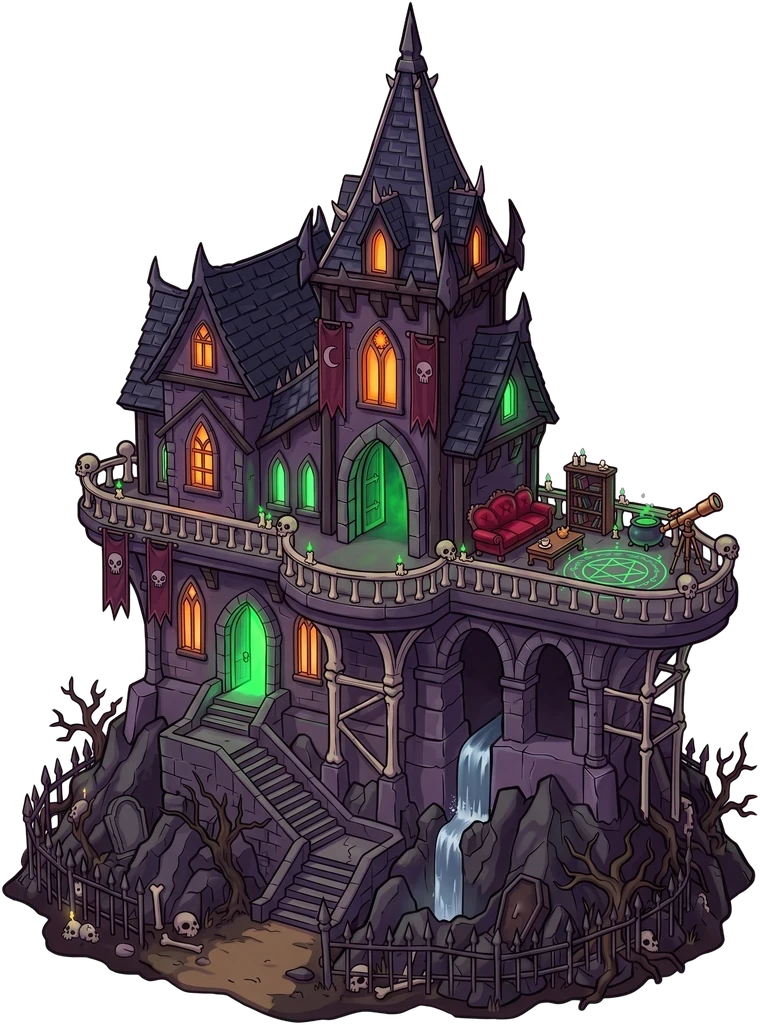
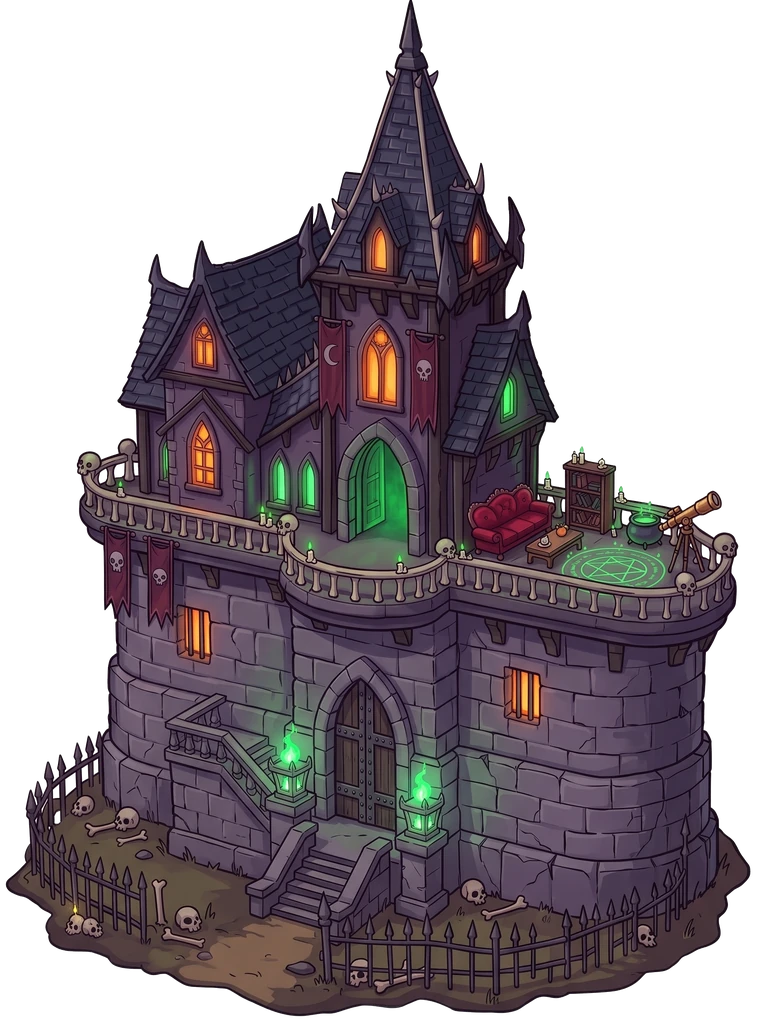
Kale v5: alt kısım kesme taş temel ve kapı (Gemini), Veo bekleme videosu kaldırıldı (siyah benekler); yeni pencere/fener ışıkları (yayın 746)

diff --git a/sinir-kalesi/js/game.js b/sinir-kalesi/js/game.js
@@ -6603,7 +6603,7 @@ function castleStage() { const r = G.lives / G.maxLives; return r > 0.6 ? 1 : r 
 // rails: önde yeniden çizilen korkuluk dikdörtgenleri (Mortimer ve muhafızların ayakları korkuluğun ardında kalır)
 // 13 Eki (Caner): kale sıfırdan (ham/nm_kale_v3.jpg, varliklar/kale_v3_isle.py): boynuzlu kafatası kule, kafatası ağzı kapı, ortada yarım daire
 // balkon (Mortimer), iki yan kanat balkonda okçular. Kesirler castle_keep_1 görseline göre (ızgarayla ölçüldü).
-const KEEP = { w: 140, gate: [0.42, 0.88], at: [0.73, 0.556], // 17 Eki (Caner): kale ve Mortimer %20, sonra %5 daha küçük (Mortimer kaleyle ölçeklenir); Mortimer yan terasta (kanepe ile ritüel çemberi arası)
+const KEEP = { w: 140, gate: [0.42, 0.9], at: [0.73, 0.556], // 17 Eki (Caner): kale ve Mortimer %20, sonra %5 daha küçük (Mortimer kaleyle ölçeklenir); Mortimer yan terasta (kanepe ile ritüel çemberi arası)
   rail: [0.36, 0.53, 0.62, 0.61], px: 122, // 17 Eki: kale v4 (teraslı gotik ev)
   // railPoly: korkuluğun üst çizgisi (tutamak) boyunca çokgen; altı önde yeniden çizilir (Mortimer ve okçuların ayakları korkuluğun ardında)
   railPoly: [[0.11, 0.454], [0.145, 0.488], [0.263, 0.5], [0.36, 0.509], [0.395, 0.532], [0.447, 0.548], [0.526, 0.552], [0.585, 0.539], [0.684, 0.564],
@@ -14950,8 +14950,10 @@ const KEEP_FX = { // 17 Eki: kale v4 (turuncu pencereler, yeşil kapılar, ritü
   fire: [], green: true, eyes: [],
   win: [[0.497, 0.244, 0.6, '255,150,60'], [0.625, 0.24, 0.5, '255,150,60'], [0.5, 0.356, 1.6, '255,150,60'], [0.267, 0.337, 0.8, '255,150,60'],
     [0.263, 0.444, 0.9, '255,150,60'], [0.366, 0.47, 0.6, '110,255,120'], [0.405, 0.47, 0.6, '110,255,120'], [0.668, 0.388, 0.7, '110,255,120'],
-    [0.5, 0.478, 1.4, '110,255,120'], [0.322, 0.634, 1.3, '110,255,120'], [0.25, 0.605, 0.8, '255,150,60'], [0.405, 0.632, 0.8, '255,150,60'],
-    [0.803, 0.551, 1.4, '110,255,120'], [0.842, 0.512, 0.7, '110,255,120']],
+    [0.5, 0.478, 1.4, '110,255,120'], [0.322, 0.634, 1.3, '110,255,120', 0], [0.25, 0.605, 0.8, '255,150,60', 0], [0.405, 0.632, 0.8, '255,150,60', 0],
+    [0.803, 0.551, 1.4, '110,255,120'], [0.842, 0.512, 0.7, '110,255,120'],
+    // 17 Eki: v5 taş temel (yalnız 1. evre; 5. öğe 1 = yalnız sağlam kale, 0 = yalnız eski kayalıklı 2-3. evre görselleri)
+    [0.255, 0.618, 0.8, '255,150,60', 1], [0.69, 0.702, 0.8, '255,150,60', 1], [0.381, 0.752, 0.9, '110,255,120', 1], [0.553, 0.806, 0.9, '110,255,120', 1]],
   // hasar evrelerinde duman ve yangın kodla canlı: smoke [x, y, kalınlık], burn [x, y, boy]; off: o evrede kırılıp sönen pencereler (win sırası)
   dmg: {
     // 17 Eki: 2-3. evrede Veo yok (Veo hasarlı kaleyi reddetti ya da onarıp çizdi): pencerelerdeki çizili yangınların üstünde kodla canlı alev
@@ -14976,7 +14978,7 @@ function drawKeepLights(cp, h, sh, burning) {
   ctx.save(); ctx.globalCompositeOperation = 'lighter';
   const off = (KEEP_FX.dmg[burning] || {}).off;
   for (const [i, f] of KEEP_FX.win.entries()) {
-    if (off && off.includes(i)) continue;
+    if ((off && off.includes(i)) || (f[4] === 1 && burning) || (f[4] === 0 && !burning)) continue;
     const [x, y] = P(f), k = 0.6 + 0.25 * Math.sin(time * 1.2 + i * 0.9) + 0.15 * Math.sin(time * 5 + i * 2) * Math.sin(time * 1.6 + i);
     glow(ctx, x, y, 22 * s * f[2], f[3] || winCol(i), 0.15 * k + 0.05);
   }

diff --git a/sinir-kalesi/index.html b/sinir-kalesi/index.html
@@ -17,7 +17,7 @@
 <canvas id="game" aria-label="Sınır Kalesi oyun alanı"></canvas>
 <script>
   // Sürüm damgası: her yayında artırılır; tarayıcı eski önbellek kopyasını kullanmaz (js ve görseller).
-  window.SURUM = '745';
+  window.SURUM = '746';
   // dil: kayıtlı seçim (yoksa Türkçe); tr/en dışındakiler için çeviri sözlüğü dil.js'ten önce yüklenir
   window.__dilYukle = (function () {
     var l = null; try { l = localStorage.getItem('sinirKalesi.lang'); } catch (e) {}

diff --git a/sinir-kalesi/yayin.html b/sinir-kalesi/yayin.html
@@ -11,7 +11,7 @@
 <canvas id="game" aria-label="Sınır Kalesi oyun alanı"></canvas>
 <script>
   // Sürüm damgası: her yayında artırılır; tarayıcı eski önbellek kopyasını kullanmaz (js ve görseller).
-  window.SURUM = '745';
+  window.SURUM = '746';
   // dil: kayıtlı seçim (yoksa Türkçe); tr/en dışındakiler için çeviri sözlüğü dil.js'ten önce yüklenir
   window.__dilYukle = (function () {
     var l = null; try { l = localStorage.getItem('sinirKalesi.lang'); } catch (e) {}

diff --git a/varliklar/kale_v5_isle.py b/varliklar/kale_v5_isle.py
@@ -1,0 +1,67 @@
+"""Kale v5 (17 Eki, Caner: "üst kısmı iyi de alt kısmı tasarım olarak kötü"): v4'ün üst kısmı aynı, alt kısım kesme taş temel + kapı.
+ham/nm_kale_v5.jpg (beyaz zemin) -> beyaz kenardan taşma doldurmayla silinir; v4 görseline üst kısımdan hizalanır (KEEP noktaları geçerli kalsın).
+    .venv/bin/python3 varliklar/kale_v5_isle.py [--yaz]   (--yaz: img/castle_keep_1.webp üstüne; eskisi cikti/kale_v4/ yedekte)"""
+import os, sys
+import numpy as np
+from PIL import Image
+from scipy import ndimage as nd
+D = os.path.dirname(os.path.abspath(__file__)); IMG = os.path.join(D, '..', 'sinir-kalesi', 'img')
+OUT = os.path.join(D, 'cikti', 'kale_v5'); os.makedirs(OUT, exist_ok=True)
+
+
+def beyaz_sil(a):
+    """kenara bağlı beyazımsı zemin saydam; sınırda beyazlık oranıyla yumuşak alfa ve beyaz karışımın geri çözülmesi"""
+    f = a.astype(np.float32); mn, mx = f.min(2), f.max(2)
+    bg = (mn > 225) & (mx - mn < 22)
+    lab, _ = nd.label(bg); edge = np.unique(np.concatenate([lab[0], lab[-1], lab[:, 0], lab[:, -1]])); edge = edge[edge > 0]
+    bg = np.isin(lab, edge)
+    # korkuluk/çit aralarında kapalı kalan beyaz delikler (kenara bağlı değil): daha katı eşikle, 30 px üstü
+    hole = (mn > 236) & (mx - mn < 14) & ~bg; lab2, n2 = nd.label(hole)
+    if n2: sz2 = nd.sum(np.ones_like(lab2), lab2, range(1, n2 + 1)); bg |= np.isin(lab2, 1 + np.where(sz2 >= 30)[0])
+    near = nd.binary_dilation(bg, iterations=3) & ~bg
+    # sınır pikseli: beyaza ne kadar yakınsa o kadar saydam (en koyu kanala göre)
+    w = np.clip((mn - 120) / (250 - 120), 0, 1)
+    al = np.ones(mn.shape, np.float32); al[bg] = 0; al[near] = 1 - w[near]
+    al = np.where(al < 0.08, 0, al)
+    # beyaz karışımını çöz: c = al*fg + (1-al)*255 -> fg
+    k = np.maximum(al, 0.05)[..., None]; fg = ((f - (1 - k) * 255) / k).clip(0, 255)
+    out = np.dstack([np.where(near[..., None], fg, f), al * 255]).astype(np.uint8)
+    lab, n = nd.label(out[..., 3] > 40); sz = nd.sum(np.ones_like(lab), lab, range(1, n + 1))
+    keep = np.isin(lab, 1 + np.where(sz >= sz.max() * 0.002)[0]); out[~nd.binary_dilation(keep, iterations=2), 3] = 0
+    return out
+
+
+def gri(rgba, s):
+    im = Image.fromarray(rgba); im = im.resize((round(im.width * s), round(im.height * s)), Image.LANCZOS)
+    a = np.asarray(im).astype(np.float32); return a[..., :3].mean(2) * (a[..., 3] / 255), a[..., 3] / 255
+
+
+new = beyaz_sil(np.asarray(Image.open(os.path.join(D, 'ham', 'nm_kale_v5.jpg')).convert('RGB')))
+old = np.asarray(Image.open(os.path.join(D, 'cikti', 'kale_v4', 'castle_keep_1.webp')).convert('RGBA'))
+og, _ = gri(old, 0.25); top = og[: int(og.shape[0] * 0.5)]  # eski görselin üst yarısı (ev + çatılar + teras başı)
+best = None
+for s in np.linspace(0.30, 0.55, 51):
+    ng, _ = gri(new, s * 0.25)
+    if ng.shape[0] < top.shape[0] or ng.shape[1] < top.shape[1]: continue
+    from numpy.lib.stride_tricks import sliding_window_view as sw
+    t = top - top.mean()
+    # kaba arama: 2 px adım
+    best_s = None
+    for dy in range(0, ng.shape[0] - top.shape[0] + 1, 2):
+        for dx in range(0, ng.shape[1] - top.shape[1] + 1, 2):
+            p = ng[dy:dy + top.shape[0], dx:dx + top.shape[1]]; e = np.abs(p - p.mean() - t).mean()
+            if best_s is None or e < best_s[0]: best_s = (e, dx, dy)
+    if best is None or best_s[0] < best[0]: best = (best_s[0], s, best_s[1] * 4, best_s[2] * 4)
+print('hizalama fark %.2f ölçek %.4f konum %d %d' % best)
+_, s, dx, dy = best
+im = Image.fromarray(new); im = im.resize((round(im.width * s), round(im.height * s)), Image.LANCZOS)
+# eski tuvale (760 genişlik) aynı yerden kes; alt kısım taşarsa tuval aşağı uzar
+H = old.shape[0]  # eski tuvalle aynı (760x1025): yeni temelin zemini de içine sığıyor, KEEP kesirleri geçerli
+c = Image.new('RGBA', (old.shape[1], H)); c.alpha_composite(im, (-dx, -dy)) if dx <= 0 and dy <= 0 else c.paste(im.crop((dx, dy, dx + old.shape[1], dy + H)), (0, 0))
+print('boyut', c.size, 'eski', old.shape[1::-1])
+c.save(os.path.join(OUT, 'castle_keep_1.webp'), 'WEBP', quality=90, method=6)
+k = Image.new('RGBA', (old.shape[1] * 2, H), (90, 110, 70, 255)); k.alpha_composite(Image.fromarray(old), (0, 0)); k.alpha_composite(c, (old.shape[1], 0))
+k.convert('RGB').save(os.path.join(OUT, 'karsilastir.jpg'), quality=88)
+if '--yaz' in sys.argv:
+    c.save(os.path.join(IMG, 'castle_keep_1.webp'), 'WEBP', quality=90, method=6)
+    print('img/ yazıldı')
